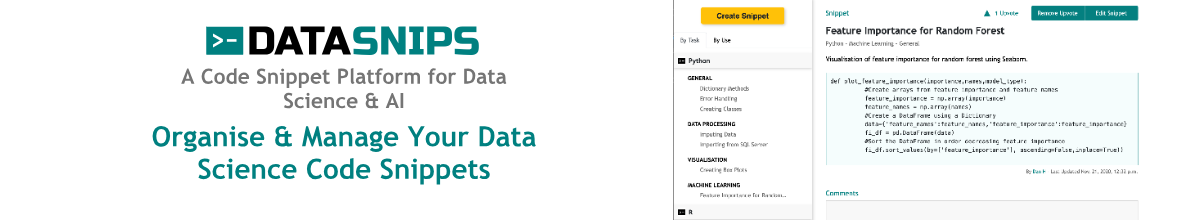
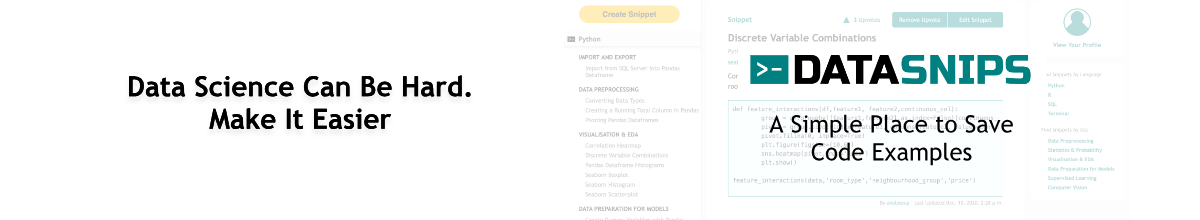
Update datasnips ad

diff --git a/blog/is-data-science-for-me.html b/blog/is-data-science-for-me.html
@@ -96,7 +96,7 @@
         <div class="w3-container content_container">
             <!--DATASNIPS-->
             <a href="https://www.datasnips.com" target=”_blank”>
-            <img src="../img/au_advert_v1.png" style="max-width:800px;display:block;width:100%;height:auto;text-align:center;border:1px solid grey;margin-left: auto;margin-right: auto;">
+            <img src="../img/au_advert_v2.png" style="max-width:800px;display:block;width:100%;height:auto;text-align:center;border:1px solid grey;margin-left: auto;margin-right: auto;">
             </a> 
             <div class="share_buttons">
                   <!--TWITTER FOLLOW-->
